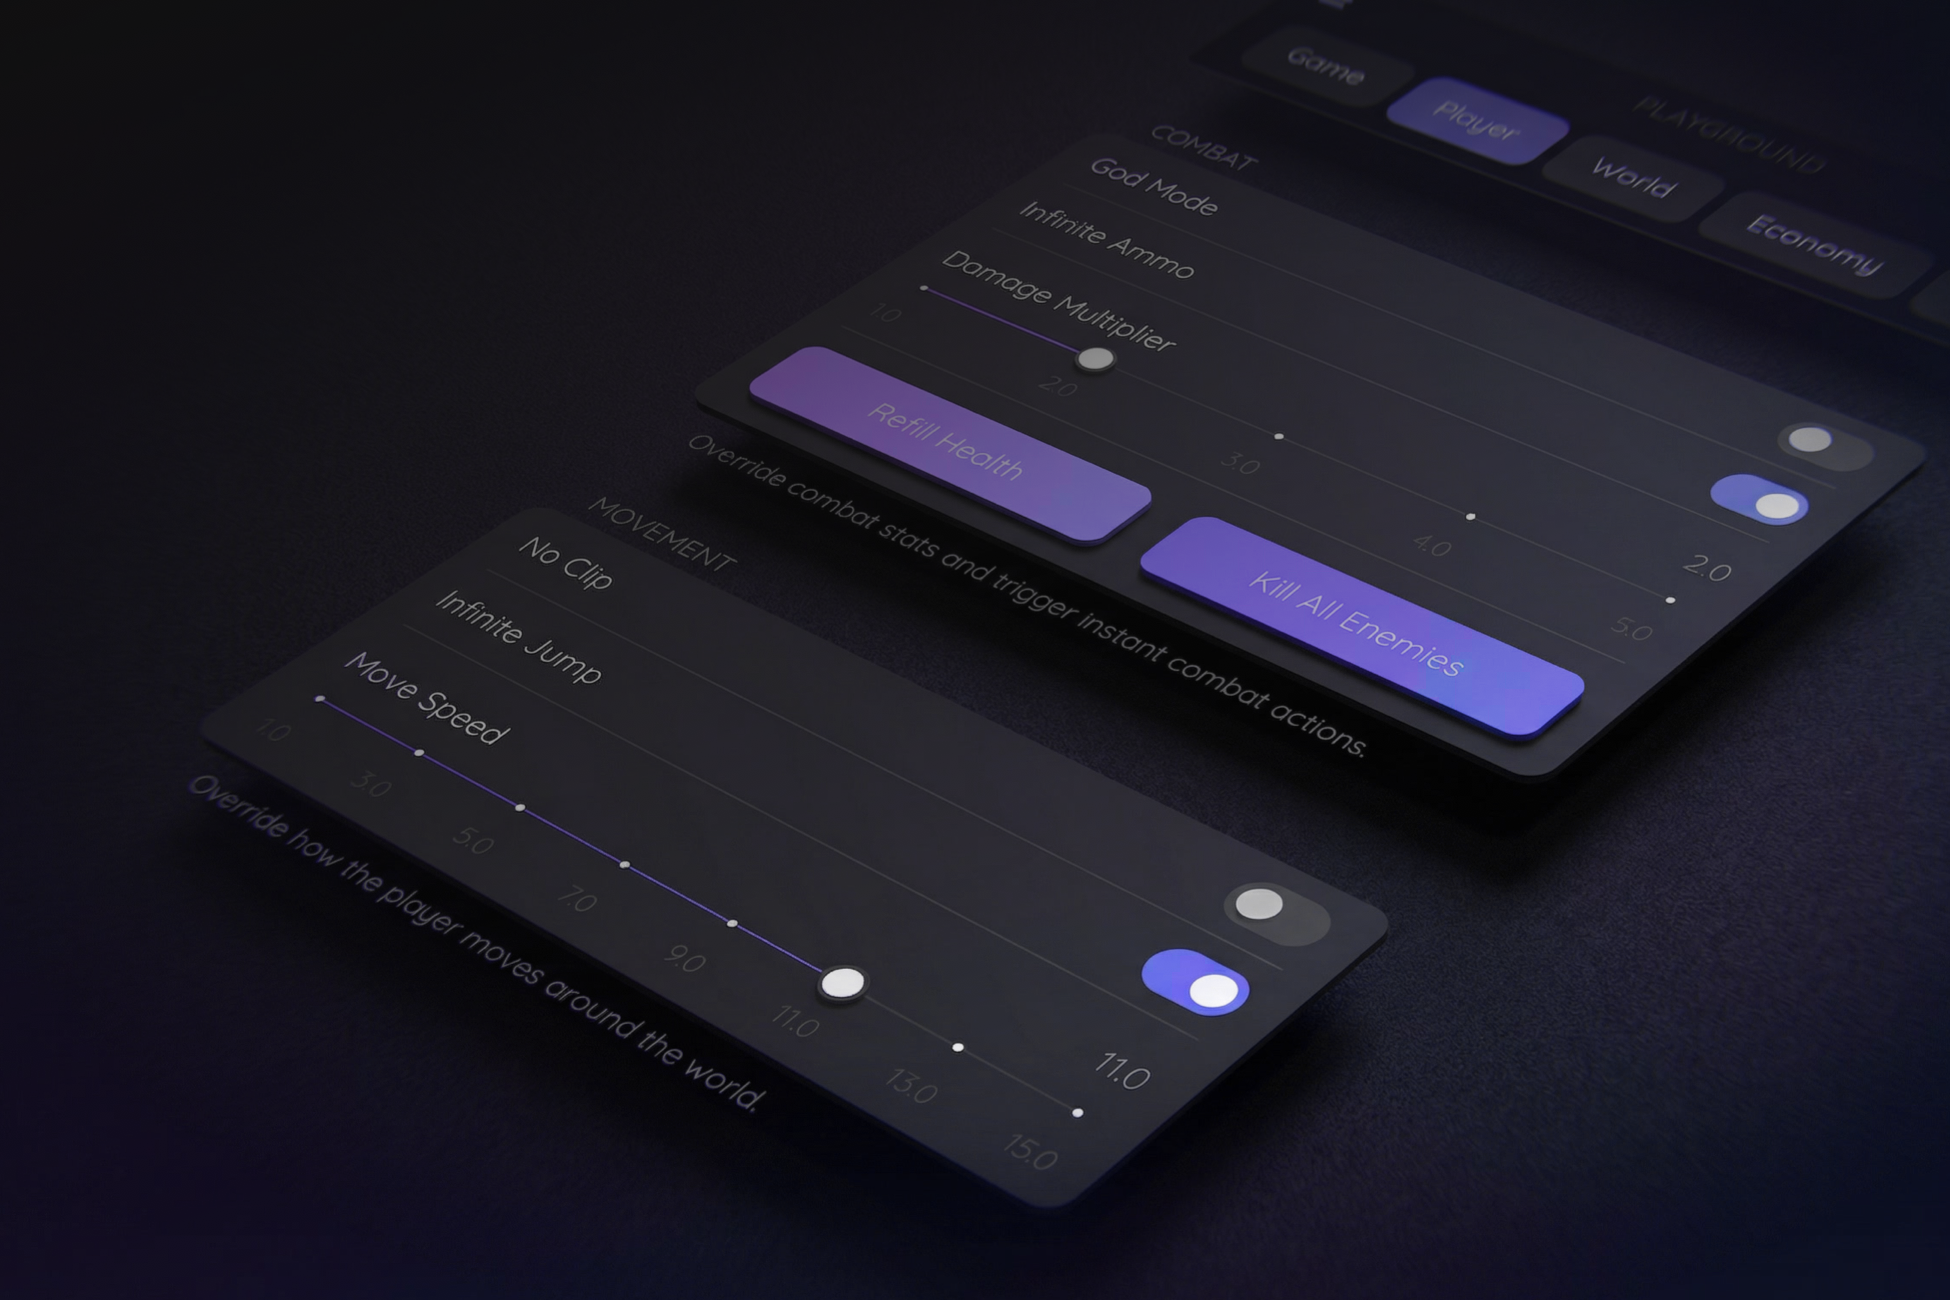
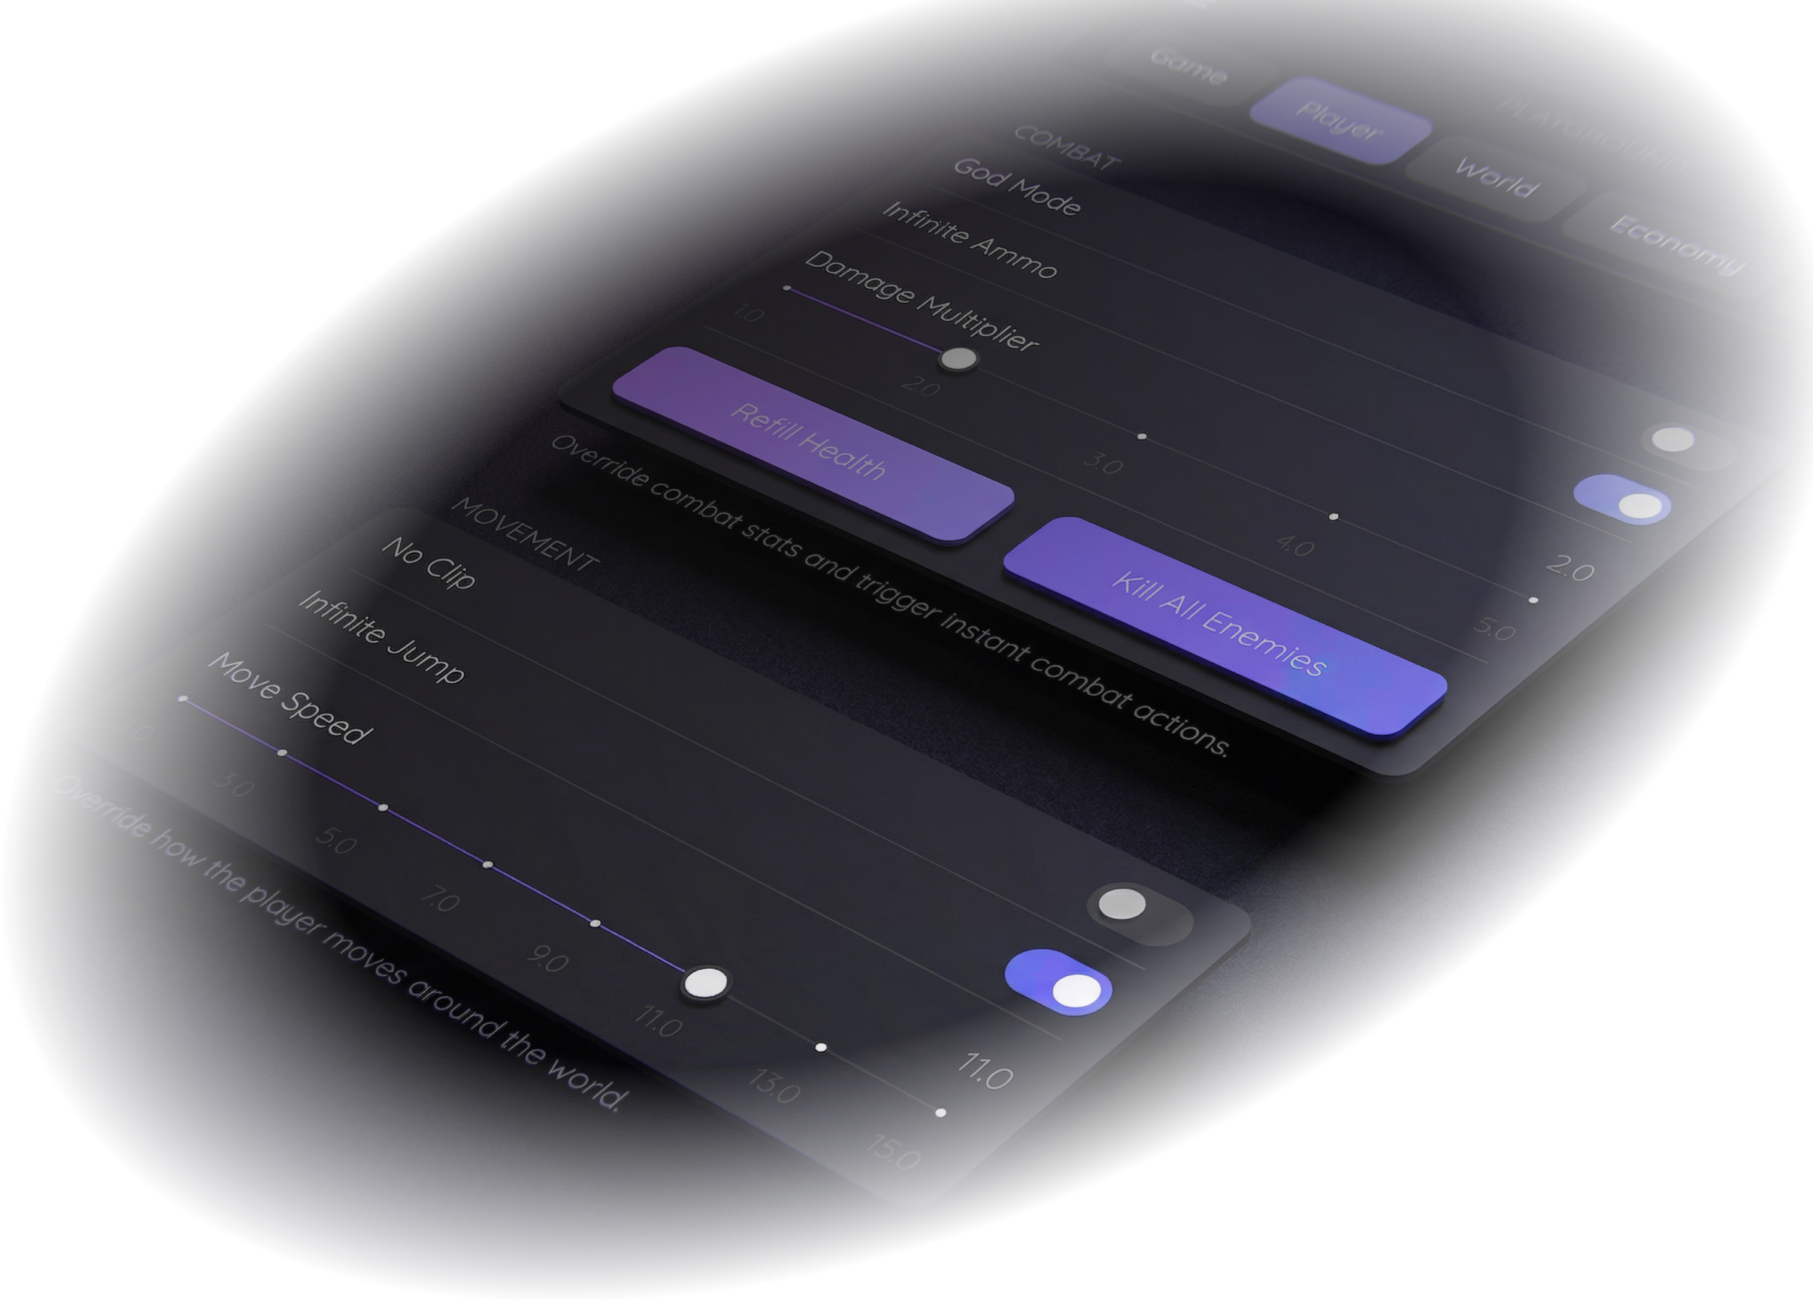
revert

diff --git a/docs/.vitepress/theme/components/HeroSection.vue b/docs/.vitepress/theme/components/HeroSection.vue
@@ -20,9 +20,6 @@
         <a href="/guide/" class="hero__secondary">Read the docs →</a>
       </div>
     </div>
-    <div class="hero__preview">
-      <img src="/fludex-promo.png" alt="FludeX debug panel in action" class="hero__preview-img" />
-    </div>
   </section>
 </template>
 
@@ -115,29 +112,6 @@
   color: var(--color-text-primary);
 }
 
-.hero__preview {
-  position: relative;
-  width: 100%;
-  max-width: 900px;
-  margin: 0 auto;
-  margin-top: var(--space-8);
-}
-
-.hero__preview-img {
-  width: 100%;
-  height: auto;
-  display: block;
-  mask-image: radial-gradient(
-    ellipse 60% 70% at 50% 55%,
-    black 50%,
-    transparent 80%
-  );
-  -webkit-mask-image: radial-gradient(
-    ellipse 60% 70% at 50% 55%,
-    black 50%,
-    transparent 80%
-  );
-}
 
 
 @media (max-width: 640px) {

diff --git a/docs/.vitepress/theme/components/SiteHeader.vue b/docs/.vitepress/theme/components/SiteHeader.vue
@@ -27,6 +27,8 @@ import SiteLogo from './SiteLogo.vue'
 }
 
 .site-header__inner {
+  max-width: var(--content-width);
+  margin: 0 auto;
   padding: 0 var(--space-6);
   height: 60px;
   display: flex;
